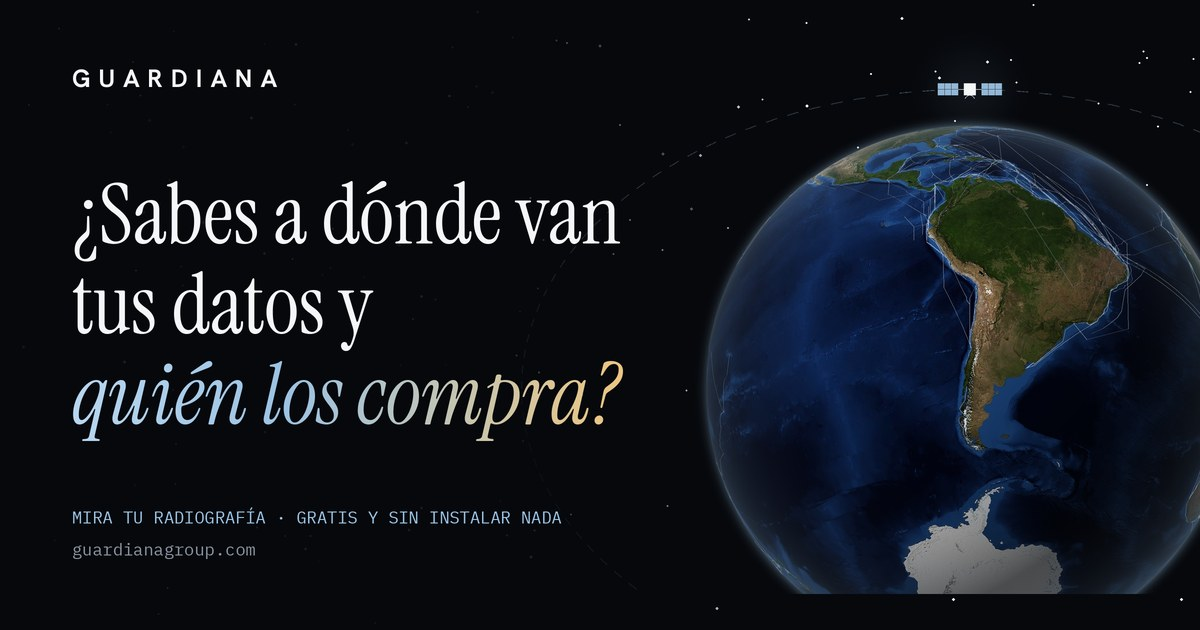
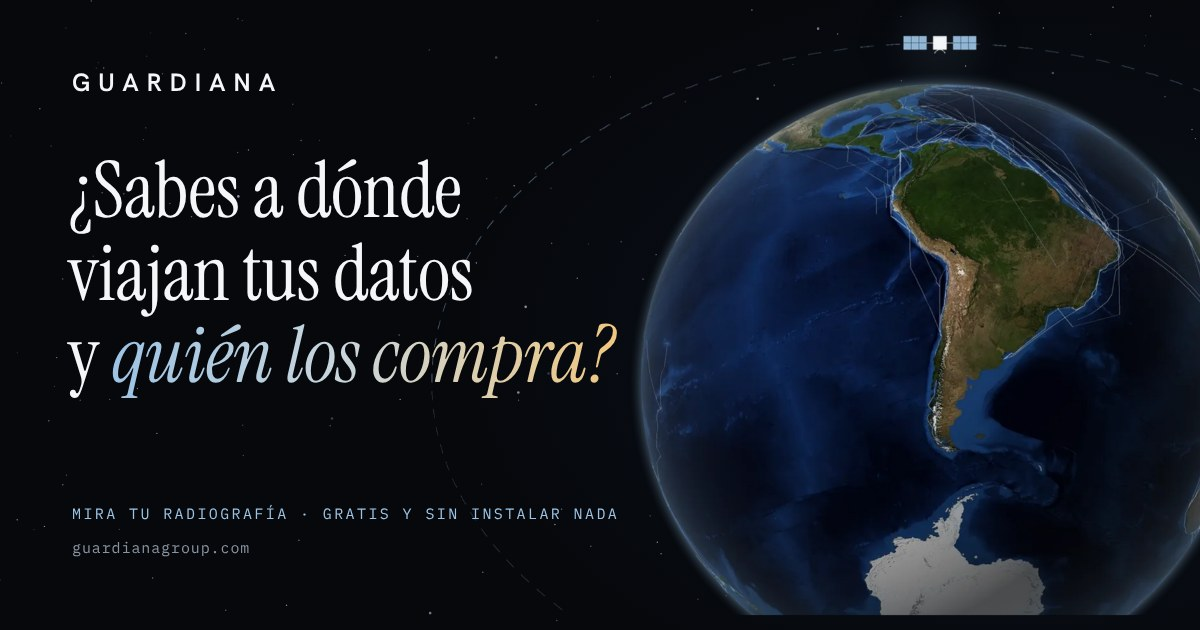
Portada: el titular pasa a «¿Sabes a dónde viajan tus datos y quién los compra?» (fundador, 23 oct 2026, 22:55), también en inglés, portugués, francés, italiano y alemán, en el título de la pestaña y en la imagen que sale al compartir el enlace
Claude-Session: https://claude.ai/code/session_01R1hPip2RgLsVTWsWzbvyDS

diff --git a/nueva/index.html b/nueva/index.html
@@ -3,19 +3,19 @@
 <head>
 <meta charset="utf-8">
 <meta name="viewport" content="width=device-width,initial-scale=1,viewport-fit=cover">
-<title>GUARDIANA · ¿Sabes a dónde van tus datos y quién los compra?</title>
+<title>GUARDIANA · ¿Sabes a dónde viajan tus datos y quién los compra?</title>
 <meta name="description" content="Mientras carga una página, tus datos salen a subasta. Mira gratis qué ve de ti cualquier web y a quién habla cada página, sin instalar nada. Código abierto.">
 <!-- Preview of the new front page: not indexed until the owner says «publícala» -->
 <meta name="robots" content="noindex, nofollow">
 <meta name="theme-color" content="#06080C">
 <meta property="og:type" content="website">
 <meta property="og:site_name" content="GUARDIANA">
-<meta property="og:title" content="¿Sabes a dónde van tus datos y quién los compra?">
+<meta property="og:title" content="¿Sabes a dónde viajan tus datos y quién los compra?">
 <meta property="og:description" content="Mientras carga una página, tus datos salen a subasta. Mira tu radiografía gratis, sin instalar nada.">
 <meta property="og:image" content="https://guardianagroup.com/portada/og.jpg">
 <meta property="og:image:width" content="1200">
 <meta property="og:image:height" content="630">
-<meta property="og:image:alt" content="El planeta con sus cables y un satélite encima, y el titular «¿Sabes a dónde van tus datos y quién los compra?»">
+<meta property="og:image:alt" content="El planeta con sus cables y un satélite encima, y el titular «¿Sabes a dónde viajan tus datos y quién los compra?»">
 <meta property="og:locale" content="es_ES">
 <meta name="twitter:card" content="summary_large_image">
 <link rel="icon" href="/favicon.ico">
@@ -447,7 +447,7 @@ body::before{content:"";position:fixed;inset:0 0 auto;height:env(safe-area-inset
     <div class="velo" aria-hidden="true"></div>
   </figure>
   <div class="hero-texto">
-    <h1 id="titular"><span class="w" style="animation-delay:.3s">¿Sabes</span> <span class="w" style="animation-delay:.42s">a</span> <span class="w" style="animation-delay:.52s">dónde</span> <span class="w" style="animation-delay:.64s">van</span> <span class="w" style="animation-delay:.76s">tus</span> <span class="w" style="animation-delay:.88s">datos</span><br> <span class="w" style="animation-delay:1.04s">y</span> <span class="w g-light" style="animation-delay:1.2s">quién los compra?</span></h1>
+    <h1 id="titular"><span class="w" style="animation-delay:.3s">¿Sabes</span> <span class="w" style="animation-delay:.42s">a</span> <span class="w" style="animation-delay:.52s">dónde</span> <span class="w" style="animation-delay:.64s">viajan</span> <span class="w" style="animation-delay:.76s">tus</span> <span class="w" style="animation-delay:.88s">datos</span><br> <span class="w" style="animation-delay:1.04s">y</span> <span class="w g-light" style="animation-delay:1.2s">quién los compra?</span></h1>
     <p class="sub">Navega en ZERO. Mira tu radiografía.</p>
     <div class="entradas">
       <a class="cta" href="/orbita/#radiografias">Ver mi radiografía gratis <span aria-hidden="true">→</span></a>
@@ -692,7 +692,7 @@ body::before{content:"";position:fixed;inset:0 0 auto;height:env(safe-area-inset
   document.querySelectorAll('[aria-label],[alt],[title]').forEach((el) => ['aria-label', 'alt', 'title'].forEach((a) => { const v = el.getAttribute(a); if (v) attrs.push({ el, a, es: v }); }));
   const h1 = document.getElementById('titular'), h1es = h1.innerHTML, tit0 = document.title, meta = document.querySelector('meta[name="description"]'), meta0 = meta ? meta.content : '';
   const CACHE = {}; let J = null;
-  const carga = (l) => CACHE[l] || (CACHE[l] = fetch('/i18n/nueva/' + l + '.json?v=20261023b').then((r) => { if (!r.ok) throw new Error(r.status); return r.json(); }));
+  const carga = (l) => CACHE[l] || (CACHE[l] = fetch('/i18n/nueva/' + l + '.json?v=20261023c').then((r) => { if (!r.ok) throw new Error(r.status); return r.json(); }));
   window.__t = (es) => { const v = J && J.t[norm(es)]; return v != null ? v : es; };
   const titular = () => { if (!J) { h1.innerHTML = h1es; return; } h1.textContent = ''; const sep = J.titular.sep != null ? J.titular.sep : ' '; let d = 0.3;
     J.titular.w.forEach((w, i) => { const s = document.createElement('span'); s.className = 'w'; s.style.animationDelay = d.toFixed(2) + 's'; d += 0.12; s.textContent = w; h1.append(s); if (J.titular.br === i) h1.append(document.createElement('br')); if (sep) h1.append(document.createTextNode(sep)); });
